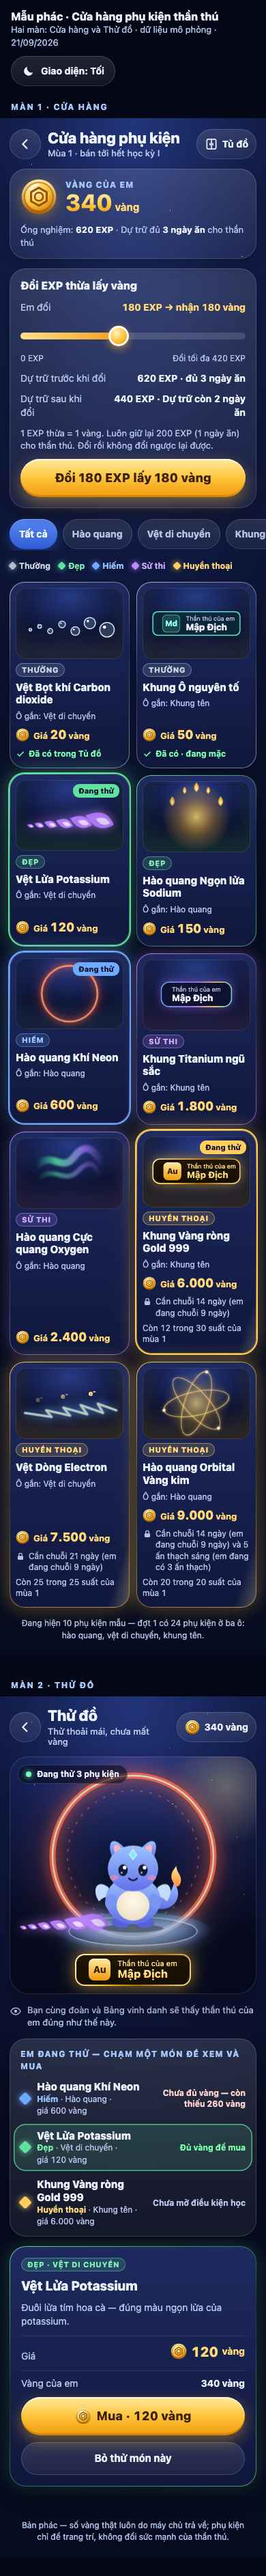
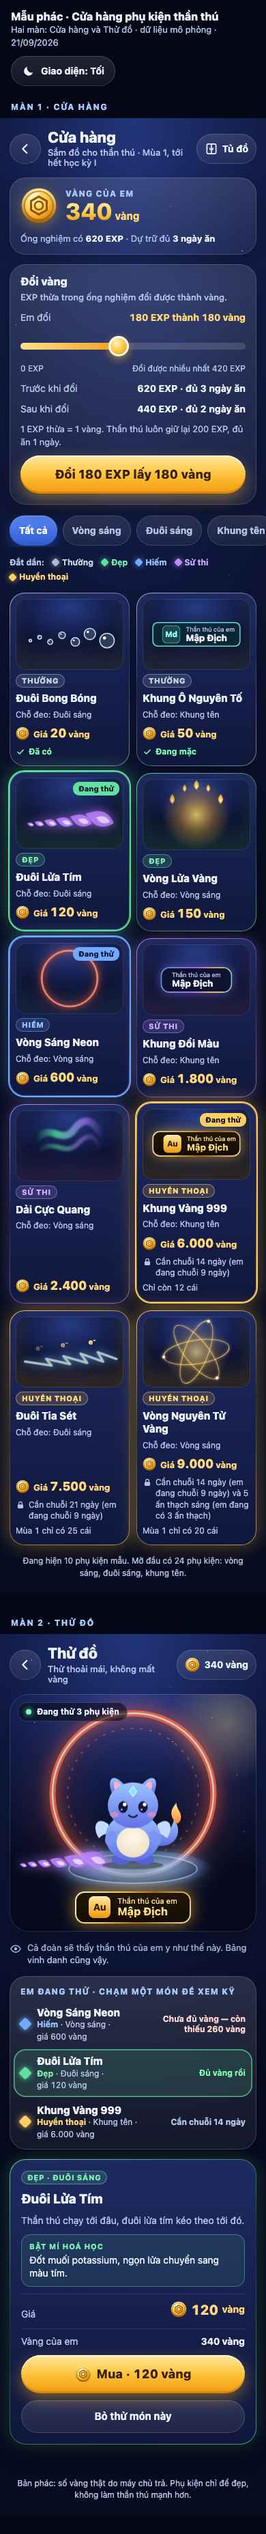
Shop phụ kiện: viết lại toàn bộ chữ theo lệnh thầy (tên món dễ hiểu + Bật mí Hoá học + bảng từ chuẩn + kho 58 chuỗi); điều phối

diff --git a/docs/ban-ve-shop-phu-kien-2109/mau-phac.html b/docs/ban-ve-shop-phu-kien-2109/mau-phac.html
@@ -94,7 +94,7 @@ svg{display:inline-block;vertical-align:middle;flex-shrink:0}
 .hai-nut{display:flex;gap:10px}
 .hai-nut>*{flex:1;min-width:0}
 
-/* ───── bộ lọc theo ô gắn ───── */
+/* ───── bộ lọc theo chỗ đeo ───── */
 .loc{display:flex;gap:8px;overflow-x:auto;scrollbar-width:none;-webkit-overflow-scrolling:touch;margin:0 -14px;padding:2px 14px}
 .loc::-webkit-scrollbar{display:none}
 .loc button{flex-shrink:0;display:inline-flex;align-items:center;gap:6px;min-height:44px;padding:0 14px;border-radius:22px;background:var(--kinh);box-shadow:inset 0 0 0 1px var(--kinh-vien);font-size:14px;font-weight:700;color:var(--chu-mo);white-space:nowrap;transition:background .2s ease,color .2s ease,box-shadow .2s ease}
@@ -103,9 +103,10 @@ svg{display:inline-block;vertical-align:middle;flex-shrink:0}
 .loc em{font-style:normal;font-size:11px;font-weight:800;padding:2px 7px;border-radius:9px;background:rgba(127,127,160,.28)}
 .chu-giai{display:flex;flex-wrap:wrap;gap:4px 12px;font-size:12px;font-weight:700}
 .chu-giai span{display:inline-flex;align-items:center;gap:5px;color:var(--bac-t)}
+.chu-giai b{color:var(--chu-mo);font-weight:700}
 .chu-giai i{width:9px;height:9px;border-radius:2px;transform:rotate(45deg);background:rgb(var(--bac-c));box-shadow:0 0 8px rgba(var(--bac-c),.8)}
 
-/* ───── bậc độ hiếm ───── */
+/* ───── năm bậc ───── */
 .bac-1{--bac-c:var(--b1c);--bac-t:var(--b1t)}.bac-2{--bac-c:var(--b2c);--bac-t:var(--b2t)}.bac-3{--bac-c:var(--b3c);--bac-t:var(--b3t)}.bac-4{--bac-c:var(--b4c);--bac-t:var(--b4t)}.bac-5{--bac-c:var(--b5c);--bac-t:var(--b5t)}
 
 /* ───── lưới thẻ món ───── */
@@ -191,6 +192,9 @@ svg{display:inline-block;vertical-align:middle;flex-shrink:0}
 .bao-thieu span{display:block;font-weight:500;font-size:13px;margin-top:2px}
 .hop-xn{padding:12px 14px;border-radius:16px;background:var(--kinh);box-shadow:inset 0 0 0 1px var(--kinh-vien);font-size:14px}
 .hop-xn b{font-weight:800}
+.bat-mi{padding:10px 12px;border-radius:14px;background:rgba(var(--bac-c),.1);box-shadow:inset 0 0 0 1px rgba(var(--bac-c),.4);font-size:14px;line-height:1.4;color:var(--chu)}
+.bat-mi b{display:block;margin-bottom:2px;font-size:11px;font-weight:800;letter-spacing:.08em;text-transform:uppercase;color:var(--bac-t)}
+.doi h3 small{display:block;margin-top:2px;font-size:13px;font-weight:500;color:var(--chu-mo)}
 .bao-xong{min-height:20px;font-size:14px;font-weight:700;color:var(--xanh-chu);text-align:center}
 .chan{font-size:12px;color:var(--chu-mo);text-align:center;padding:0 8px}
 [hidden]{display:none!important}
@@ -252,7 +256,7 @@ svg{display:inline-block;vertical-align:middle;flex-shrink:0}
     <div class="may">
       <div class="dau">
         <button class="nut-tron" type="button" aria-label="Về Đảo thần thú"><svg width="22" height="22" aria-hidden="true"><use href="#bt-lui"/></svg></button>
-        <h2>Cửa hàng phụ kiện<small>Mùa 1 · bán tới hết học kỳ I</small></h2>
+        <h2>Cửa hàng<small>Sắm đồ cho thần thú · Mùa 1, tới hết học kỳ I</small></h2>
         <button class="nut-tron" type="button"><svg width="20" height="20" aria-hidden="true"><use href="#bt-tu"/></svg>Tủ đồ</button>
       </div>
 
@@ -264,28 +268,29 @@ svg{display:inline-block;vertical-align:middle;flex-shrink:0}
             <div><strong class="so" data-vang>340</strong><span>vàng</span></div>
           </div>
         </div>
-        <div class="vi-phu">Ống nghiệm: <b class="so"><span data-ong>620</span> EXP</b> · Dự trữ đủ <b class="so"><span data-ngay-an>3</span> ngày ăn</b> cho thần thú</div>
+        <div class="vi-phu">Ống nghiệm có <b class="so"><span data-ong>620</span> EXP</b> · Dự trữ đủ <b class="so"><span data-ngay-an>3</span> ngày ăn</b></div>
       </div>
 
       <div class="kinh doi" id="khoi-doi">
-        <h3>Đổi EXP thừa lấy vàng</h3>
-        <div class="doi-dong noi"><span>Em đổi</span><b class="so"><span data-doi-exp>180</span> EXP → nhận <span data-doi-vang>180</span> vàng</b></div>
+        <h3>Đổi vàng<small>EXP thừa trong ống nghiệm đổi được thành vàng.</small></h3>
+        <div class="doi-dong noi"><span>Em đổi</span><b class="so"><span data-doi-exp>180</span> EXP thành <span data-doi-vang>180</span> vàng</b></div>
         <input class="truot" id="truot" type="range" min="0" max="420" step="10" value="180" aria-label="Số EXP thừa em muốn đổi thành vàng">
-        <div class="doi-moc so"><span>0 EXP</span><span>Đổi tối đa <span data-doi-max>420</span> EXP</span></div>
-        <div class="doi-dong"><span>Dự trữ trước khi đổi</span><b class="so"><span data-truoc>620</span> EXP · đủ <span data-truoc-ngay>3</span> ngày ăn</b></div>
-        <div class="doi-dong"><span>Dự trữ sau khi đổi</span><b class="so"><span data-sau>440</span> EXP · Dự trữ còn <span data-sau-ngay>2</span> ngày ăn</b></div>
-        <p class="ghi-chu">1 EXP thừa = 1 vàng. Luôn giữ lại 200 EXP (1 ngày ăn) cho thần thú. Đổi rồi không đổi ngược lại được.</p>
+        <div class="doi-moc so"><span>0 EXP</span><span>Đổi được nhiều nhất <span data-doi-max>420</span> EXP</span></div>
+        <div class="doi-dong"><span>Trước khi đổi</span><b class="so"><span data-truoc>620</span> EXP · đủ <span data-truoc-ngay>3</span> ngày ăn</b></div>
+        <div class="doi-dong"><span>Sau khi đổi</span><b class="so"><span data-sau>440</span> EXP · đủ <span data-sau-ngay>2</span> ngày ăn</b></div>
+        <p class="ghi-chu">1 EXP thừa = 1 vàng. Thần thú luôn giữ lại 200 EXP, đủ ăn 1 ngày.</p>
         <div class="hop-xn" id="xn-doi" hidden></div>
         <div class="hai-nut" id="nut-doi-khung">
           <button class="nut-vang" id="nut-doi" type="button"><span>Đổi 180 EXP lấy 180 vàng</span></button>
         </div>
+        <div class="bao-xong" id="bao-doi" role="status" aria-live="polite" hidden></div>
       </div>
 
       <div>
-        <div class="loc" id="loc" role="group" aria-label="Lọc theo ô gắn trên thần thú"></div>
+        <div class="loc" id="loc" role="group" aria-label="Lọc theo chỗ đeo trên thần thú"></div>
       </div>
-      <div class="chu-giai" aria-label="Năm bậc độ hiếm">
-        <span class="bac-1"><i></i>Thường</span><span class="bac-2"><i></i>Đẹp</span><span class="bac-3"><i></i>Hiếm</span><span class="bac-4"><i></i>Sử thi</span><span class="bac-5"><i></i>Huyền thoại</span>
+      <div class="chu-giai" aria-label="Năm bậc, đắt dần từ Thường tới Huyền thoại">
+        <b>Đắt dần:</b><span class="bac-1"><i></i>Thường</span><span class="bac-2"><i></i>Đẹp</span><span class="bac-3"><i></i>Hiếm</span><span class="bac-4"><i></i>Sử thi</span><span class="bac-5"><i></i>Huyền thoại</span>
       </div>
 
       <div class="luoi" id="luoi"></div>
@@ -299,7 +304,7 @@ svg{display:inline-block;vertical-align:middle;flex-shrink:0}
     <div class="may">
       <div class="dau">
         <button class="nut-tron" type="button" aria-label="Về Cửa hàng"><svg width="22" height="22" aria-hidden="true"><use href="#bt-lui"/></svg></button>
-        <h2>Thử đồ<small>Thử thoải mái, chưa mất vàng</small></h2>
+        <h2>Thử đồ<small>Thử thoải mái, không mất vàng</small></h2>
         <span class="nut-tron" style="cursor:default" aria-label="Vàng của em"><svg width="22" height="22" aria-hidden="true"><use href="#dong-vang"/></svg><span class="so"><span data-vang>340</span> vàng</span></span>
       </div>
 
@@ -338,16 +343,16 @@ svg{display:inline-block;vertical-align:middle;flex-shrink:0}
         <div class="san-nhan"><span id="nhan-dang-thu">Đang thử 3 phụ kiện</span></div>
         <div class="san-ten lop" id="lop-ten"></div>
       </div>
-      <div class="ban-be"><svg width="18" height="18" aria-hidden="true"><use href="#bt-mat"/></svg><span>Bạn cùng đoàn và Bảng vinh danh sẽ thấy thần thú của em đúng như thế này.</span></div>
+      <div class="ban-be"><svg width="18" height="18" aria-hidden="true"><use href="#bt-mat"/></svg><span>Cả đoàn sẽ thấy thần thú của em y như thế này. Bảng vinh danh cũng vậy.</span></div>
 
       <div class="kinh thu-ds">
-        <h3>Em đang thử — chạm một món để xem và mua</h3>
+        <h3>Em đang thử · chạm một món để xem kỹ</h3>
         <div id="thu-ds"></div>
       </div>
 
       <div class="kinh chi-tiet" id="chi-tiet"></div>
       <div class="bao-xong" id="bao-xong" role="status" aria-live="polite"></div>
-      <p class="chan">Bản phác — số vàng thật luôn do máy chủ trả về; phụ kiện chỉ để trang trí, không đổi sức mạnh của thần thú.</p>
+      <p class="chan">Bản phác: số vàng thật do máy chủ trả. Phụ kiện chỉ để đẹp, không làm thần thú mạnh hơn.</p>
     </div>
   </section>
 </main>
@@ -355,19 +360,21 @@ svg{display:inline-block;vertical-align:middle;flex-shrink:0}
 <script>
 (function () {
   'use strict'
-  var O = { 'hao-quang': 'Hào quang', 'vet': 'Vệt di chuyển', 'khung': 'Khung tên' }
+  // CHỮ theo mục 9 của DE-XUAT-SHOP-PHU-KIEN-2109.md: tên món không có tên chất; tên chất chỉ nằm ở dòng Bật mí Hoá học (bm).
+  var O = { 'hao-quang': 'Vòng sáng', 'vet': 'Đuôi sáng', 'khung': 'Khung tên' }
   var BAC = ['', 'Thường', 'Đẹp', 'Hiếm', 'Sử thi', 'Huyền thoại']
+  var DU_MOI_NGAY = 80 // mức dư mỗi ngày của em học đủ (mục 2) — chỉ dùng cho lời chỉ đường "khoảng N ngày"
   var MON = [
-    { ma: 'VD-01', ten: 'Vệt Bọt khí Carbon dioxide', o: 'vet', bac: 1, gia: 20, hinh: 'bot-khi', ta: 'Chuỗi bong bóng tròn nhỏ dần phía sau mỗi bước chân.' },
-    { ma: 'KT-03', ten: 'Khung Ô nguyên tố', o: 'khung', bac: 1, gia: 50, hinh: 'o-nguyen-to', ta: 'Ô bảng tuần hoàn: kí hiệu ở góc, tên thần thú ở giữa.' },
-    { ma: 'VD-04', ten: 'Vệt Lửa Potassium', o: 'vet', bac: 2, gia: 120, hinh: 'potassium', ta: 'Đuôi lửa tím hoa cà — đúng màu ngọn lửa của potassium.' },
-    { ma: 'HQ-03', ten: 'Hào quang Ngọn lửa Sodium', o: 'hao-quang', bac: 2, gia: 150, hinh: 'sodium', ta: 'Quầng vàng cam ấm với năm lưỡi lửa nhỏ — màu ngọn lửa của sodium.' },
-    { ma: 'HQ-05', ten: 'Hào quang Khí Neon', o: 'hao-quang', bac: 3, gia: 600, hinh: 'neon', ta: 'Vòng ống sáng đỏ cam như đèn neon, sáng lên rồi dịu xuống rất chậm.' },
-    { ma: 'KT-07', ten: 'Khung Titanium ngũ sắc', o: 'khung', bac: 4, gia: 1800, hinh: 'titanium', ta: 'Kim loại chuyển màu lam – tím – vàng theo góc nhìn.' },
-    { ma: 'HQ-07', ten: 'Hào quang Cực quang Oxygen', o: 'hao-quang', bac: 4, gia: 2400, hinh: 'cuc-quang', dk: { chuoi: 7 }, ta: 'Dải cực quang lục – tím uốn sau lưng thần thú.' },
-    { ma: 'KT-08', ten: 'Khung Vàng ròng Gold 999', o: 'khung', bac: 5, gia: 6000, hinh: 'gold', dk: { chuoi: 14 }, suat: { con: 12, tong: 30 }, ta: 'Khung vàng kim chạm nổi kí hiệu Au, ánh sáng chạy chậm từ trái sang phải.' },
-    { ma: 'VD-08', ten: 'Vệt Dòng Electron', o: 'vet', bac: 5, gia: 7500, hinh: 'electron', dk: { chuoi: 21 }, suat: { con: 25, tong: 25 }, ta: 'Tia sét lam – vàng kim chạy dọc đường đi, để lại kí hiệu electron mờ dần.' },
-    { ma: 'HQ-08', ten: 'Hào quang Orbital Vàng kim', o: 'hao-quang', bac: 5, gia: 9000, hinh: 'orbital', dk: { chuoi: 14, an: 5 }, suat: { con: 20, tong: 20 }, ta: 'Ba quỹ đạo electron vàng kim xoay chậm quanh thần thú.' }
+    { ma: 'VD-01', ten: 'Đuôi Bong Bóng', o: 'vet', bac: 1, gia: 20, hinh: 'bot-khi', ta: 'Mỗi bước chân thả lại một chuỗi bong bóng nhỏ dần.', bm: 'Bọt trong nước ngọt có ga là khí carbon dioxide thoát ra.' },
+    { ma: 'KT-03', ten: 'Khung Ô Nguyên Tố', o: 'khung', bac: 1, gia: 50, hinh: 'o-nguyen-to', ta: 'Tên thần thú nằm trong một ô của bảng tuần hoàn.', bm: 'Bảng tuần hoàn có 118 nguyên tố, mỗi ô một nguyên tố.' },
+    { ma: 'VD-04', ten: 'Đuôi Lửa Tím', o: 'vet', bac: 2, gia: 120, hinh: 'potassium', ta: 'Thần thú chạy tới đâu, đuôi lửa tím kéo theo tới đó.', bm: 'Đốt muối potassium, ngọn lửa chuyển sang màu tím.' },
+    { ma: 'HQ-03', ten: 'Vòng Lửa Vàng', o: 'hao-quang', bac: 2, gia: 150, hinh: 'sodium', ta: 'Quầng sáng vàng ấm với năm lưỡi lửa nhỏ lay nhẹ.', bm: 'Đốt muối sodium, ngọn lửa chuyển sang màu vàng.' },
+    { ma: 'HQ-05', ten: 'Vòng Sáng Neon', o: 'hao-quang', bac: 3, gia: 600, hinh: 'neon', ta: 'Vòng đèn đỏ cam quanh thần thú, sáng lên rồi dịu xuống.', bm: 'Khí neon phát sáng đỏ cam khi có dòng điện chạy qua.' },
+    { ma: 'KT-07', ten: 'Khung Đổi Màu', o: 'khung', bac: 4, gia: 1800, hinh: 'titanium', ta: 'Khung kim loại đổi màu lam, tím, vàng theo góc nhìn.', bm: 'Lớp oxide mỏng trên titanium làm ánh sáng giao thoa, tạo nhiều màu.' },
+    { ma: 'HQ-07', ten: 'Dải Cực Quang', o: 'hao-quang', bac: 4, gia: 2400, hinh: 'cuc-quang', dk: { chuoi: 7 }, ta: 'Dải sáng lục tím uốn lượn sau lưng thần thú.', bm: 'Màu lục của cực quang do nguyên tử oxygen trên cao phát ra.' },
+    { ma: 'KT-08', ten: 'Khung Vàng 999', o: 'khung', bac: 5, gia: 6000, hinh: 'gold', dk: { chuoi: 14 }, suat: { con: 12, tong: 30 }, ta: 'Khung vàng chạm nổi, ánh sáng chạy chậm qua tên thần thú.', bm: 'Vàng 999 chứa 99,9 % gold, để lâu không gỉ.' },
+    { ma: 'VD-08', ten: 'Đuôi Tia Sét', o: 'vet', bac: 5, gia: 7500, hinh: 'electron', dk: { chuoi: 21 }, suat: { con: 25, tong: 25 }, ta: 'Tia sét lam vàng chạy dọc đường thần thú đi qua.', bm: 'Dòng điện trong dây kim loại là dòng electron chuyển động có hướng.' },
+    { ma: 'HQ-08', ten: 'Vòng Nguyên Tử Vàng', o: 'hao-quang', bac: 5, gia: 9000, hinh: 'orbital', dk: { chuoi: 14, an: 5 }, suat: { con: 20, tong: 20 }, ta: 'Ba vòng vàng kim xoay chậm quanh thần thú.', bm: 'Electron chuyển động rất nhanh quanh hạt nhân, tạo thành đám mây electron.' }
   ]
   // Trạng thái MÔ PHỎNG — ở app thật mọi số đều do máy chủ trả, máy em không tự tính.
   var em = { vang: 340, ong: 620, chuoi: 9, an: 3, soHuu: { 'VD-01': 1, 'KT-03': 1 }, dangMac: { khung: 'KT-03' }, dangThu: { 'hao-quang': 'HQ-05', vet: 'VD-04', khung: 'KT-08' }, tieuDiem: 'VD-04', loc: 'tat-ca', choXn: false }
@@ -384,6 +391,29 @@ svg{display:inline-block;vertical-align:middle;flex-shrink:0}
     if (m.dk.chuoi && em.chuoi < m.dk.chuoi) thieu.push('chuỗi ' + m.dk.chuoi + ' ngày (em đang chuỗi ' + em.chuoi + ' ngày)')
     if (m.dk.an && em.an < m.dk.an) thieu.push(m.dk.an + ' ấn thạch sáng (em đang có ' + em.an + ' ấn thạch)')
     return thieu.length ? 'Cần ' + thieu.join(' và ') : ''
+  }
+  function khoaNgan(m) { // trạng thái ngắn theo bảng từ chuẩn: "Cần chuỗi 14 ngày"
+    var t = []
+    if (m.dk.chuoi && em.chuoi < m.dk.chuoi) t.push('chuỗi ' + m.dk.chuoi + ' ngày')
+    if (m.dk.an && em.an < m.dk.an) t.push(m.dk.an + ' ấn thạch sáng')
+    return 'Cần ' + t.join(' + ')
+  }
+  function duongMoKhoa(m) { // lời chỉ đường khi còn khoá — nói đúng số còn thiếu
+    var t = []
+    if (m.dk.chuoi && em.chuoi < m.dk.chuoi) t.push('Giữ chuỗi thêm ' + (m.dk.chuoi - em.chuoi) + ' ngày nữa là mở.')
+    if (m.dk.an && em.an < m.dk.an) t.push('Kiếm thêm ' + (m.dk.an - em.an) + ' ấn thạch sáng ở Đoàn Hộ Tống là mở.')
+    if (t.length === 2) return 'Giữ chuỗi thêm ' + (m.dk.chuoi - em.chuoi) + ' ngày. Kiếm thêm ' + (m.dk.an - em.an) + ' ấn thạch sáng ở Đoàn Hộ Tống.'
+    return t.join(' ')
+  }
+  function duongToiVang(thieu) { // lời chỉ đường khi thiếu vàng — ước lượng, luôn có chữ "khoảng"
+    var doiDuoc = Math.max(0, em.ong - 200)
+    if (doiDuoc >= thieu) return 'Em có đủ EXP thừa. Đổi vàng là mua được.'
+    return 'Học đều khoảng ' + Math.ceil((thieu - doiDuoc) / DU_MOI_NGAY) + ' ngày nữa là đủ vàng.'
+  }
+  function soLuong(m, dai) { // "Chỉ còn N cái" — chưa ai mua thì nói thật "Mùa 1 chỉ có N cái"
+    if (m.suat.con <= 0) return 'Đã hết'
+    if (m.suat.con === m.suat.tong) return 'Mùa 1 chỉ có ' + m.suat.tong + ' cái'
+    return 'Chỉ còn ' + m.suat.con + ' cái' + (dai ? ' · mùa 1 có ' + m.suat.tong + ' cái' : '')
   }
 
   /* ── hình phụ kiện: SVG lớp phủ, dùng chung cho thẻ và sân khấu ── */
@@ -431,22 +461,22 @@ svg{display:inline-block;vertical-align:middle;flex-shrink:0}
 
   /* ── màn 1 ── */
   function veLoc() {
-    var ds = [['tat-ca', 'Tất cả'], ['hao-quang', 'Hào quang'], ['vet', 'Vệt di chuyển'], ['khung', 'Khung tên'], ['dau', 'Đầu', 1], ['co-lung', 'Cổ, lưng', 1]]
+    var ds = [['tat-ca', 'Tất cả'], ['hao-quang', 'Vòng sáng'], ['vet', 'Đuôi sáng'], ['khung', 'Khung tên'], ['dau', 'Trên đầu', 1], ['co-lung', 'Trên lưng', 1]]
     $('loc').innerHTML = ds.map(function (d) { return '<button type="button" data-loc="' + d[0] + '" aria-pressed="' + (em.loc === d[0]) + '"' + (d[2] ? ' disabled' : '') + '>' + d[1] + (d[2] ? ' <em>Sắp mở</em>' : '') + '</button>' }).join('')
   }
   function veLuoi() {
     var ds = MON.filter(function (m) { return em.loc === 'tat-ca' || m.o === em.loc })
     $('luoi').innerHTML = ds.map(function (m) {
       var dangThu = em.dangThu[m.o] === m.ma, co = em.soHuu[m.ma], mac = em.dangMac[m.o] === m.ma, k = khoa(m), phu = ''
-      if (co) phu = '<span class="the-phu co">' + bt('tich', 14) + '<span>' + (mac ? 'Đã có · đang mặc' : 'Đã có trong Tủ đồ') + '</span></span>'
+      if (co) phu = '<span class="the-phu co">' + bt('tich', 14) + '<span>' + (mac ? 'Đang mặc' : 'Đã có') + '</span></span>'
       else if (k) phu = '<span class="the-phu">' + bt('khoa', 14) + '<span>' + k + '</span></span>'
-      if (!co && m.suat) phu += '<span class="the-phu so"><span>Còn ' + m.suat.con + ' trong ' + m.suat.tong + ' suất của mùa 1</span></span>'
+      if (!co && m.suat) phu += '<span class="the-phu so"><span>' + soLuong(m) + '</span></span>'
       return '<button type="button" class="the bac-' + m.bac + '" data-ma="' + m.ma + '" aria-pressed="' + dangThu + '" aria-label="Thử ' + m.ten + ', bậc ' + BAC[m.bac] + ', giá ' + so(m.gia) + ' vàng">' +
         '<span class="the-tranh">' + tranhThe(m) + '</span>' + (dangThu ? '<span class="the-dang-thu">Đang thử</span>' : '') +
-        '<span class="the-bac">' + BAC[m.bac] + '</span><span class="the-ten">' + m.ten + '</span><span class="the-o">Ô gắn: ' + O[m.o] + '</span>' +
+        '<span class="the-bac">' + BAC[m.bac] + '</span><span class="the-ten">' + m.ten + '</span><span class="the-o">Chỗ đeo: ' + O[m.o] + '</span>' +
         '<span class="the-gia so">' + vang(20) + '<span>Giá <b>' + so(m.gia) + '</b> vàng</span></span>' + phu + '</button>'
     }).join('')
-    $('dem-mon').textContent = 'Đang hiện ' + ds.length + ' phụ kiện mẫu — đợt 1 có 24 phụ kiện ở ba ô: hào quang, vệt di chuyển, khung tên.'
+    $('dem-mon').textContent = 'Đang hiện ' + ds.length + ' phụ kiện mẫu. Mở đầu có 24 phụ kiện: vòng sáng, đuôi sáng, khung tên.'
   }
   function veDoi() {
     var max = Math.max(0, em.ong - 200), t = $('truot')
@@ -485,17 +515,17 @@ svg{display:inline-block;vertical-align:middle;flex-shrink:0}
     if (ngay) { $('lop-hq').innerHTML = a; $('lop-vet').innerHTML = b; $('lop-ten').innerHTML = c; $('lop-hq').dataset.html = a; $('lop-vet').dataset.html = b; $('lop-ten').dataset.html = c }
     else { doiLop($('lop-hq'), a); doiLop($('lop-vet'), b); doiLop($('lop-ten'), c) }
     var n = Object.keys(em.dangThu).length
-    $('nhan-dang-thu').textContent = n ? 'Đang thử ' + n + ' phụ kiện' : 'Đồ em đang mặc'
+    $('nhan-dang-thu').textContent = n ? 'Đang thử ' + n + ' phụ kiện' : 'Đồ thần thú đang mặc'
   }
   function trangThai(m) {
-    if (em.soHuu[m.ma]) return { lop: 'du', chu: em.dangMac[m.o] === m.ma ? 'Đã có · đang mặc' : 'Đã có' }
-    var k = khoa(m); if (k) return { lop: 'khoa', chu: 'Chưa mở điều kiện học' }
+    if (em.soHuu[m.ma]) return { lop: 'du', chu: em.dangMac[m.o] === m.ma ? 'Đang mặc' : 'Đã có' }
+    var k = khoa(m); if (k) return { lop: 'khoa', chu: khoaNgan(m) }
     if (em.vang < m.gia) return { lop: 'thieu', chu: 'Chưa đủ vàng — còn thiếu ' + so(m.gia - em.vang) + ' vàng' }
-    return { lop: 'du', chu: 'Đủ vàng để mua' }
+    return { lop: 'du', chu: 'Đủ vàng rồi' }
   }
   function veDangThu() {
     var ma = Object.keys(em.dangThu).map(function (o) { return em.dangThu[o] })
-    if (!ma.length) { $('thu-ds').innerHTML = '<p class="ghi-chu" style="padding:8px 10px 12px">Em chưa thử món nào. Chạm một phụ kiện ở Cửa hàng để thử lên thần thú.</p>'; return }
+    if (!ma.length) { $('thu-ds').innerHTML = '<p class="ghi-chu" style="padding:8px 10px 12px">Em chưa thử món nào. Chạm một phụ kiện ở Cửa hàng, thần thú mặc thử liền.</p>'; return }
     $('thu-ds').innerHTML = ma.map(function (x) { var m = mon(x), tt = trangThai(m)
       return '<button type="button" class="thu-hang bac-' + m.bac + '" data-tieu-diem="' + m.ma + '" aria-pressed="' + (em.tieuDiem === m.ma) + '"><span class="thu-ngoc" aria-hidden="true"></span><span class="thu-chu"><b>' + m.ten + '</b><span><span class="bac-chu">' + BAC[m.bac] + '</span> · ' + O[m.o] + ' · <span class="so">giá ' + so(m.gia) + ' vàng</span></span></span><span class="thu-tt ' + tt.lop + '">' + tt.chu + '</span></button>' }).join('')
   }
@@ -503,25 +533,32 @@ svg{display:inline-block;vertical-align:middle;flex-shrink:0}
     var m = mon(em.tieuDiem), el = $('chi-tiet')
     if (!m) { el.hidden = true; return }
     el.hidden = false; el.className = 'kinh chi-tiet bac-' + m.bac
-    var h = '<span class="the-bac">' + BAC[m.bac] + ' · ' + O[m.o] + '</span><h3>' + m.ten + '</h3><p>' + m.ta + '</p>' +
+    var h = '<span class="the-bac">' + BAC[m.bac] + ' · ' + O[m.o] + '</span><h3>' + m.ten + '</h3><p>' + m.ta + '</p><div class="bat-mi"><b>Bật mí Hoá học</b>' + m.bm + '</div>' +
       '<div class="ct-dong"><span>Giá</span><span class="gia so">' + vang(24) + so(m.gia) + ' <small>vàng</small></span></div>' +
       '<div class="ct-dong"><span>Vàng của em</span><b class="so">' + so(em.vang) + ' vàng</b></div>'
-    if (m.dk) h += '<div class="ct-dong"><span>Điều kiện học</span><b>' + (m.dk.chuoi ? 'Chuỗi ' + m.dk.chuoi + ' ngày' : '') + (m.dk.an ? ' + ' + m.dk.an + ' ấn thạch sáng' : '') + '</b></div>'
-    if (m.suat) h += '<div class="ct-dong"><span>Số lượng mùa 1</span><b class="so">Còn ' + m.suat.con + ' trong ' + m.suat.tong + ' suất</b></div>'
+    if (m.dk) h += '<div class="ct-dong"><span>Cần có</span><b>' + (m.dk.chuoi ? 'Chuỗi ' + m.dk.chuoi + ' ngày' : '') + (m.dk.an ? ' + ' + m.dk.an + ' ấn thạch sáng' : '') + '</b></div>'
+    if (m.suat) h += '<div class="ct-dong"><span>Số lượng</span><b class="so">' + soLuong(m, true) + '</b></div>'
     var k = khoa(m), co = em.soHuu[m.ma]
     if (co) {
-      h += em.dangMac[m.o] === m.ma ? '<div class="nut-khoa">' + bt('tich', 18) + 'Thần thú đang mặc món này</div>' : '<button type="button" class="nut-vang" data-viec="mac"><span>Mặc món này</span></button>'
+      h += em.dangMac[m.o] === m.ma ? '<div class="nut-khoa">' + bt('tich', 18) + 'Thần thú đang mặc món này</div>' : '<button type="button" class="nut-vang" data-viec="mac"><span>Mặc ngay</span></button>'
     } else if (k) {
-      h += '<div class="nut-khoa">' + bt('khoa', 18) + '<span>Chưa mua được — ' + k.charAt(0).toLowerCase() + k.slice(1) + '</span></div>'
+      h += '<div class="nut-khoa">' + bt('khoa', 18) + '<span>Chưa mua được — ' + k.charAt(0).toLowerCase() + k.slice(1) + '</span></div><p class="ghi-chu" style="text-align:center">' + duongMoKhoa(m) + '</p>'
     } else if (em.vang < m.gia) {
-      h += '<div class="bao-thieu">' + bt('canh-bao', 20) + '<div class="so">Chưa đủ vàng — còn thiếu ' + so(m.gia - em.vang) + ' vàng<span>Em có thể đổi EXP thừa trong ống nghiệm lấy vàng, hoặc học thêm vài ngày.</span></div></div><button type="button" class="nut-mo" data-viec="toi-doi">' + vang(20) + 'Đổi EXP thừa lấy vàng</button>'
+      h += '<div class="bao-thieu">' + bt('canh-bao', 20) + '<div class="so">Chưa đủ vàng — còn thiếu ' + so(m.gia - em.vang) + ' vàng<span>' + duongToiVang(m.gia - em.vang) + '</span></div></div><button type="button" class="nut-mo" data-viec="toi-doi">' + vang(20) + 'Đổi vàng</button>'
     } else if (em.choXn) {
-      h += '<div class="hop-xn so">Em trả <b>' + so(m.gia) + ' vàng</b>, còn lại <b>' + so(em.vang - m.gia) + ' vàng</b>. Mua rồi không trả lại, không bán lại được.</div><div class="hai-nut"><button type="button" class="nut-mo" data-viec="de-sau">Để sau</button><button type="button" class="nut-vang" data-viec="mua-that"><span class="so">Mua · ' + so(m.gia) + ' vàng</span></button></div>'
+      h += '<div class="hop-xn so">Em trả <b>' + so(m.gia) + ' vàng</b>, còn lại <b>' + so(em.vang - m.gia) + ' vàng</b>. Mua rồi giữ mãi, không trả lại hay bán lại được.</div><div class="hai-nut"><button type="button" class="nut-mo" data-viec="de-sau">Để sau</button><button type="button" class="nut-vang" data-viec="mua-that"><span class="so">Mua · ' + so(m.gia) + ' vàng</span></button></div>'
     } else {
       h += '<button type="button" class="nut-vang" data-viec="mua">' + vang(24) + '<span class="so">Mua · ' + so(m.gia) + ' vàng</span></button>'
     }
     h += '<button type="button" class="nut-mo" data-viec="bo-thu">Bỏ thử món này</button>'
     el.innerHTML = h
+  }
+  function monKe() { // một câu chỉ món kế sau khi mua: nói thật, không ép
+    var ds = MON.filter(function (x) { return !em.soHuu[x.ma] && !khoa(x) }).sort(function (p, q) { return p.gia - q.gia })
+    if (!ds.length) return ''
+    var vua = ds.filter(function (x) { return x.gia <= em.vang })
+    if (vua.length) { var t = vua[vua.length - 1]; return ' Em vẫn đủ vàng cho ' + t.ten + ', giá ' + so(t.gia) + ' vàng.' }
+    return ' Món kế: ' + ds[0].ten + '. ' + duongToiVang(ds[0].gia - em.vang)
   }
   function veHet(ngay) { veLuoi(); veSan(ngay); veDangThu(); veChiTiet() }
 
@@ -536,20 +573,20 @@ svg{display:inline-block;vertical-align:middle;flex-shrink:0}
     if (v === 'mua') { em.choXn = true; veChiTiet() }
     else if (v === 'de-sau') { em.choXn = false; veChiTiet() }
     else if (v === 'mua-that') { var cu = em.vang; em.vang -= m.gia; em.soHuu[m.ma] = 1; em.dangMac[m.o] = m.ma; delete em.dangThu[m.o]; em.dangThu[m.o] = m.ma; em.choXn = false; chaySo(cu, em.vang); if (navigator.vibrate && !giamChuyenDong) navigator.vibrate(18)
-      $('bao-xong').textContent = 'Đã mua ' + m.ten + ' — vàng của em còn ' + so(em.vang) + ' vàng.'; veHet() }
-    else if (v === 'mac') { em.dangMac[m.o] = m.ma; veHet() }
+      $('bao-xong').textContent = 'Hợp quá! ' + m.ten + ' đã là của em. Em còn ' + so(em.vang) + ' vàng.' + monKe(); veHet() }
+    else if (v === 'mac') { em.dangMac[m.o] = m.ma; $('bao-xong').textContent = 'Đã mặc ' + m.ten + '.'; veHet() }
     else if (v === 'bo-thu') { delete em.dangThu[m.o]; var con = Object.keys(em.dangThu); em.tieuDiem = con.length ? em.dangThu[con[0]] : ''; em.choXn = false; veHet() }
     else if (v === 'toi-doi') { $('khoi-doi').scrollIntoView({ behavior: giamChuyenDong ? 'auto' : 'smooth', block: 'center' }); $('truot').focus({ preventScroll: true }) } })
-  $('truot').addEventListener('input', function () { $('xn-doi').hidden = true; khungNutDoi(false); veDoi() })
+  $('truot').addEventListener('input', function () { $('xn-doi').hidden = true; $('bao-doi').hidden = true; khungNutDoi(false); veDoi() })
   function khungNutDoi(xn) {
     var x = +$('truot').value
     $('nut-doi-khung').innerHTML = xn ? '<button type="button" class="nut-mo" id="nut-doi-sau">Để sau</button><button type="button" class="nut-vang" id="nut-doi-that"><span class="so">Đổi ' + so(x) + ' EXP</span></button>' : '<button class="nut-vang" id="nut-doi" type="button"><span></span></button>'
     if (!xn) veDoi()
   }
   $('khoi-doi').addEventListener('click', function (e) { var b = e.target.closest('button'); if (!b) return; var x = +$('truot').value
-    if (b.id === 'nut-doi' && x > 0) { $('xn-doi').hidden = false; $('xn-doi').innerHTML = 'Thần thú mất <b class="so">' + so(x) + ' EXP</b> dự trữ, em nhận <b class="so">' + so(x) + ' vàng</b>. Dự trữ còn <b class="so">' + Math.floor((em.ong - x) / 200) + ' ngày ăn</b>. Không đổi ngược lại được.'; khungNutDoi(true) }
+    if (b.id === 'nut-doi' && x > 0) { $('xn-doi').hidden = false; $('bao-doi').hidden = true; $('xn-doi').innerHTML = 'Thần thú bớt <b class="so">' + so(x) + ' EXP</b> dự trữ, vẫn đủ <b class="so">' + Math.floor((em.ong - x) / 200) + ' ngày ăn</b>. Em nhận <b class="so">' + so(x) + ' vàng</b>, đổi rồi không đổi ngược lại được.'; khungNutDoi(true) }
     else if (b.id === 'nut-doi-sau') { $('xn-doi').hidden = true; khungNutDoi(false) }
-    else if (b.id === 'nut-doi-that') { var cu = em.vang; em.vang += x; em.ong -= x; $('xn-doi').hidden = true; $('truot').value = 0; khungNutDoi(false); chaySo(cu, em.vang); veHet() } })
+    else if (b.id === 'nut-doi-that') { var cu = em.vang; em.vang += x; em.ong -= x; $('xn-doi').hidden = true; $('truot').value = 0; khungNutDoi(false); chaySo(cu, em.vang); $('bao-doi').hidden = false; $('bao-doi').textContent = 'Đã đổi xong. Em có ' + so(em.vang) + ' vàng, thần thú vẫn đủ ' + Math.floor(em.ong / 200) + ' ngày ăn.'; veHet() } })
 
   /* ── Sáng / Tối ── */
   function datGiaoDien(g) { document.documentElement.setAttribute('data-giao-dien', g); $('chu-giao-dien').textContent = 'Giao diện: ' + (g === 'sang' ? 'Sáng' : 'Tối'); $('bt-giao-dien').setAttribute('href', g === 'sang' ? '#bt-mat-troi' : '#bt-trang') }

diff --git a/DIEU-PHOI.md b/DIEU-PHOI.md
@@ -152,6 +152,7 @@ Phân vùng dự kiến theo hai bản thiết kế:
 
 > Chỉ giữ 12 dòng mới nhất ở đây để mỗi phiên đọc nhanh, đỡ tốn ngữ cảnh. Dòng cũ hơn: `docs/nhat-ky-dieu-phoi-cu.md` (các dòng "đã soát <mã>" cũ vẫn có hiệu lực — tra ở đó bằng `grep`).
 
+- 21/09 20:04 · Boss: **CHỮ SHOP PHỤ KIỆN ĐÃ VIẾT LẠI** theo lệnh thầy "dễ hiểu, thú vị, cuốn hút" (`DE-XUAT-SHOP-PHU-KIEN-2109.md` + mẫu phác + 2 ảnh): 40 tên món ≤ 4 từ không tên chất ("Đuôi Lửa Tím", "Vòng Sáng Neon", "Khung Vàng 999", "Ba Lô Bóng Bay"…), mỗi món một dòng "Bật mí Hoá học" ≤ 14 từ đúng danh pháp 2018; giữ 5 bậc Thường · Đẹp · Hiếm · Sử thi · Huyền thoại (thang kim loại trùng chữ "vàng" là tiền); "ô gắn" ⇒ "Chỗ đeo", "suất" ⇒ "chỉ còn N cái", GIỮ từ "ống nghiệm" vì app học sinh đang dùng; MỤC 9 MỚI = bảng từ chuẩn + kho 58 chuỗi giao diện — Code 2/3/4 lấy chữ ĐÚNG từ mục 9, không tự đặt. Mã món, giá, luật, tên lệnh/khoá JSON KHÔNG đổi. 0 tràn ngang 360/390 sáng + tối.
 - 21/09 20:02 · Boss: **WORKER GÓI 6d63cfa CHƯA LÊN** (vẫn 680b2c3a): hệ thống phân quyền của phiên Code 3 từ chối "Production Deploy" khi chỉ có lệnh của Boss — CẦN THẦY gõ "cho phép đẩy Worker" trong chat phiên Code 3 (Boss không đi đường vòng, không nhờ phiên khác đẩy hộ). Sẵn: cây sạch 6d63cfa, mốc Time Travel `0000023b-0001ae6b-000050ed-e003c71b72497e3318130f4ee50d219a`, lùi 680b2c3a. P14 (c8071a8) của Code 2 đã dựng + kiểm, CHỜ Worker. **Boss đã soát 94724ee + ab98e94** (Code 3, đệm bảng Thi đua 30 giây theo lớp: kho Map mức mô-đun khoá chuỗi; SỐ CỦA CHÍNH EM luôn đếm tươi rồi ghi đè dòng của em ⇒ thẻ Hôm nay = ô Thi đua ngay, chỉ số của BẠN chậm ≤ 30 giây; xem thử không đệm; test cũ đỏ vì đệm lẫn giữa các D1 giả đã xanh lại): bản sạch ab98e94 `tsc -p server` 0, 368 test/nhóm Thi đua + một định nghĩa + phụ huynh + Bảng tin xanh ⇒ được đi cùng lượt Worker kế (dựng tại ab98e94 thay cho 6d63cfa); sau đẩy ĐO dòng đọc Thi đua 1 giờ.
 - 21/09 19:57 · Boss: **Boss đã soát c8071a8** (Code 2, phần MÀN trần riêng: sảnh Đoàn lấy hết-lượt + số từ `doan-sanh` (60), Đảo giữ `recommendations` (36), test hai chiều; "Đã đi N/6 chặng hôm nay", đủ chặng ⇒ khoá LÊN ĐƯỜNG + Mở đoàn mới kèm lý do; `hetCauMoi` ⇒ lời thật ở chuẩn bị hiệp 1; máy chủ cũ ⇒ không số, không tự khoá): bản sạch c8071a8 `tsc -b` 0, check:mau 0, 393 test game xanh. **CHO PHÉP P14** = bản sạch tại c8071a8 (mã chạm `src` sau 6d63cfa chỉ có c8071a8), lùi bdb3e68a — CHỈ SAU KHI Code 3 báo Worker gói 6d63cfa đã lên.
 - 21/09 19:53 · Boss: **Boss đã soát dc98b47 + 6d63cfa** (Code 3, lệnh thầy: trần Đoàn riêng 60 · Đảo 36; Đoàn rút câu cá nhân bằng `chooseLuotMoi` + chặn lặp mọi nguồn + ưu tiên câu chưa từng làm; trùm nhớ câu đã ra; `TOI_DA_CHANG_NGAY` 4 → 6; `doan-sanh` thêm `tranNgay`/`dailyUsed`/`changHomNay`): bản sạch 6d63cfa `tsc -p server` 0, `tsc -b` 0, 558 test/31 tệp xanh; máy chủ đúng 5 tệp. Đã kiểm: GIỮ ĐỦ chặn cũ ở cả câu cá nhân + trùm (cấm tự luận, ca chưa công bố, bài về nhà chưa nộp, thầy chặn, lớp đã học); gói câu vẫn qua `publicQuestion` (không lộ đáp án); trần đếm đúng loại phiên ở rút/trả lời/cổng INSERT nguyên tử (test hai câu trả lời song song); truy vấn chặn lặp đều theo `sbd` + chỉ mục, `json_each`, không UNION; hết câu ⇒ lời thật, không 500, không mất vé; EXP/vé KHÔNG đổi; test cũ không xoá, chỗ nới duy nhất `doan-may-chu` (`nhan` chỉ còn kiểm kiểu chuỗi). ⇒ **CHO ĐẨY WORKER từ 6d63cfa** (lùi 680b2c3a, mốc Time Travel; 94724ee CHƯA đi cùng). NỢ NHẸ: `doan-vao` chưa trả `hetCauMoi`; câu trùm đã ra mới bị đẩy xuống sau chứ chưa chặn hẳn khi kho Phần II nhỏ; vòng bù O(n²) tệ nhất; `docCauDaLamMoiNguon` đọc cả sổ của em trước cổng 6 chặng ⇒ cân nhắc chỉ mục `(sbd,qid,luc)`.
